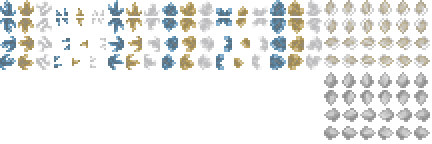
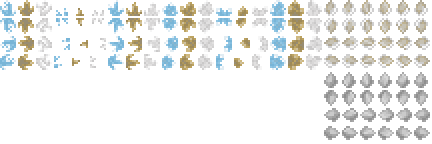
better shard and glow

diff --git a/Content/Tiles/Rapture/RadiantShard.cs b/Content/Tiles/Rapture/RadiantShard.cs
@@ -1,6 +1,7 @@
 using Microsoft.Xna.Framework;
 using Terraria;
 using Terraria.ID;
+using Terraria.Localization;
 using Terraria.ModLoader;
 
 namespace VanillaPlus.Content.Tiles.Rapture
@@ -32,7 +33,10 @@ namespace VanillaPlus.Content.Tiles.Rapture
 
             DustType = DustID.YellowTorch; // Gold dust
             HitSound = SoundID.Item27;
-            AddMapEntry(new Color(255, 215, 100)); // Gold
+
+            // Map entry with hover text
+            LocalizedText name = CreateMapEntryName();
+            AddMapEntry(new Color(255, 215, 100), name); // Gold
 
             RegisterItemDrop(ModContent.ItemType<Items.Rapture.RadiantShard>());
         }
@@ -42,36 +46,69 @@ namespace VanillaPlus.Content.Tiles.Rapture
             num = fail ? 1 : 3;
         }
 
+        /// <summary>
+        /// Called when the tile frame is being recalculated.
+        /// Returns false to destroy the tile if the attached block is gone.
+        /// </summary>
+        public override bool TileFrame(int i, int j, ref bool resetFrame, ref bool noBreak)
+        {
+            Tile tile = Main.tile[i, j];
+            short frameY = tile.TileFrameY;
+
+            // Check if the attached tile still exists based on orientation
+            Tile attachedTile;
+            if (frameY == 0)
+                attachedTile = Main.tile[i, j + 1]; // Floor attachment - check below
+            else if (frameY == 18)
+                attachedTile = Main.tile[i, j - 1]; // Ceiling attachment - check above
+            else if (frameY == 36)
+                attachedTile = Main.tile[i + 1, j]; // Right wall attachment - check right
+            else if (frameY == 54)
+                attachedTile = Main.tile[i - 1, j]; // Left wall attachment - check left
+            else
+                return true; // Unknown orientation, let it be
+
+            // If attached tile is no longer solid, kill this shard
+            if (!attachedTile.HasTile || !Main.tileSolid[attachedTile.TileType] ||
+                attachedTile.IsHalfBlock || attachedTile.Slope != SlopeType.Solid)
+            {
+                WorldGen.KillTile(i, j);
+                return false;
+            }
+
+            return true;
+        }
+
         public override void ModifyLight(int i, int j, ref float r, ref float g, ref float b)
         {
             // Get the frame to determine crystal color
             Tile tile = Main.tile[i, j];
-            int frameColumn = tile.TileFrameX / 18;
+            int frameColumn = tile.TileFrameX / 18; // 0-17
 
-            // Sprite sheet has 3 color groups repeating: blue, gold, white
-            // Pattern appears to be roughly: 0-5 blue, 6-11 gold, 12-17 white
-            int colorGroup = frameColumn % 18;
+            // Sprite sheet cycles: blue, yellow, white repeating
+            // Column 0,3,6,9,12,15 = blue | 1,4,7,10,13,16 = yellow | 2,5,8,11,14,17 = white
+            int colorIndex = frameColumn % 3;
 
-            if (colorGroup < 6)
+            if (colorIndex == 0)
             {
-                // Blue/cyan crystals - subtle blue glow
-                r = 0.15f;
-                g = 0.25f;
-                b = 0.35f;
+                // Baby blue crystals - pastel baby blue glow
+                r = 0.5f;
+                g = 0.7f;
+                b = 0.85f;
             }
-            else if (colorGroup < 12)
+            else if (colorIndex == 1)
             {
-                // Gold/yellow crystals - subtle gold glow
-                r = 0.35f;
-                g = 0.30f;
-                b = 0.1f;
+                // Yellow/gold crystals - warm yellow glow
+                r = 0.55f;
+                g = 0.5f;
+                b = 0.15f;
             }
             else
             {
                 // White/silver crystals - subtle white glow
-                r = 0.3f;
-                g = 0.3f;
-                b = 0.3f;
+                r = 0.4f;
+                g = 0.4f;
+                b = 0.4f;
             }
         }
 

diff --git a/Content/Tiles/Rapture/GlowingRadiantShard.cs b/Content/Tiles/Rapture/GlowingRadiantShard.cs
@@ -1,6 +1,7 @@
 using Microsoft.Xna.Framework;
 using Terraria;
 using Terraria.ID;
+using Terraria.Localization;
 using Terraria.ModLoader;
 
 namespace VanillaPlus.Content.Tiles.Rapture
@@ -34,7 +35,10 @@ namespace VanillaPlus.Content.Tiles.Rapture
 
             DustType = DustID.YellowTorch;
             HitSound = SoundID.Item27;
-            AddMapEntry(new Color(255, 240, 150)); // Brighter gold
+
+            // Map entry with hover text
+            LocalizedText name = CreateMapEntryName();
+            AddMapEntry(new Color(255, 240, 150), name); // Brighter gold
 
             RegisterItemDrop(ModContent.ItemType<Items.Rapture.RadiantShard>());
         }
@@ -44,29 +48,62 @@ namespace VanillaPlus.Content.Tiles.Rapture
             num = fail ? 1 : 3;
         }
 
+        /// <summary>
+        /// Called when the tile frame is being recalculated.
+        /// Returns false to destroy the tile if the attached block is gone.
+        /// </summary>
+        public override bool TileFrame(int i, int j, ref bool resetFrame, ref bool noBreak)
+        {
+            Tile tile = Main.tile[i, j];
+            short frameY = tile.TileFrameY;
+
+            // Check if the attached tile still exists based on orientation
+            Tile attachedTile;
+            if (frameY == 0)
+                attachedTile = Main.tile[i, j + 1]; // Floor attachment - check below
+            else if (frameY == 18)
+                attachedTile = Main.tile[i, j - 1]; // Ceiling attachment - check above
+            else if (frameY == 36)
+                attachedTile = Main.tile[i + 1, j]; // Right wall attachment - check right
+            else if (frameY == 54)
+                attachedTile = Main.tile[i - 1, j]; // Left wall attachment - check left
+            else
+                return true; // Unknown orientation, let it be
+
+            // If attached tile is no longer solid, kill this shard
+            if (!attachedTile.HasTile || !Main.tileSolid[attachedTile.TileType] ||
+                attachedTile.IsHalfBlock || attachedTile.Slope != SlopeType.Solid)
+            {
+                WorldGen.KillTile(i, j);
+                return false;
+            }
+
+            return true;
+        }
+
         public override void ModifyLight(int i, int j, ref float r, ref float g, ref float b)
         {
             // Get the frame to determine crystal color
             Tile tile = Main.tile[i, j];
-            int frameColumn = tile.TileFrameX / 18;
+            int frameColumn = tile.TileFrameX / 18; // 0-17
 
-            // Sprite sheet has 3 color groups repeating: blue, gold, white
-            // Pattern appears to be roughly: 0-5 blue, 6-11 gold, 12-17 white
-            int colorGroup = frameColumn % 18;
+            // Sprite sheet cycles: blue, yellow, white repeating
+            // Column 0,3,6,9,12,15 = blue | 1,4,7,10,13,16 = yellow | 2,5,8,11,14,17 = white
+            int colorIndex = frameColumn % 3;
 
-            if (colorGroup < 6)
+            if (colorIndex == 0)
             {
-                // Blue/cyan crystals - bright blue glow
-                r = 0.3f;
-                g = 0.6f;
-                b = 0.9f;
+                // Baby blue crystals - bright pastel baby blue glow
+                r = 0.75f;
+                g = 0.9f;
+                b = 1.0f;
             }
-            else if (colorGroup < 12)
+            else if (colorIndex == 1)
             {
-                // Gold/yellow crystals - bright gold glow
-                r = 0.9f;
-                g = 0.8f;
-                b = 0.3f;
+                // Yellow/gold crystals - bright saturated yellow glow
+                r = 1.0f;
+                g = 0.95f;
+                b = 0.2f;
             }
             else
             {

diff --git a/recolor_backgrounds.py b/recolor_backgrounds.py
@@ -435,7 +435,7 @@ def recolor_water(image):
     return result
 
 def recolor_radiant_shard(image):
-    """RadiantShard: cyan -> baby blue, pink/magenta -> gold, purple -> white"""
+    """RadiantShard: cyan -> very light pastel baby blue, pink/magenta -> gold, purple -> white"""
     if image.mode != 'RGBA':
         image = image.convert('RGBA')
 
@@ -456,10 +456,11 @@ def recolor_radiant_shard(image):
         elif 0.7 < h <= 0.8:
             s = s * 0.1  # Nearly white
             l = min(1.0, l + 0.2)
-        # Cyan/teal (hue ~0.45-0.55) -> baby blue (brighten)
-        elif 0.45 < h < 0.55:
-            h = 0.55  # Sky/baby blue
-            l = min(1.0, l + 0.1)
+        # Cyan/teal/blue (hue ~0.45-0.6) -> soft baby blue (not too washed out)
+        elif 0.45 < h < 0.6:
+            h = 0.56  # Baby blue
+            l = min(1.0, l + 0.15)  # Moderate brightness
+            s = max(0.45, s * 0.7)  # Keep more saturation for visibility
 
         r2, g2, b2 = colorsys.hls_to_rgb(h, l, s)
         new_pixels.append((int(r2*255), int(g2*255), int(b2*255), a))
@@ -469,7 +470,7 @@ def recolor_radiant_shard(image):
     return result
 
 def recolor_glowing_radiant_shard(image):
-    """GlowingRadiantShard: same as radiant but brighter"""
+    """GlowingRadiantShard: same as radiant but even brighter/more glowing"""
     if image.mode != 'RGBA':
         image = image.convert('RGBA')
 
@@ -492,10 +493,11 @@ def recolor_glowing_radiant_shard(image):
         elif 0.7 < h <= 0.8:
             s = s * 0.05
             l = min(1.0, l + 0.3)
-        # Cyan -> bright baby blue
-        elif 0.45 < h < 0.55:
-            h = 0.55
-            l = min(1.0, l + 0.2)
+        # Cyan/teal/blue -> brighter baby blue (glowing but still visible)
+        elif 0.45 < h < 0.6:
+            h = 0.56  # Baby blue
+            l = min(1.0, l + 0.25)  # Brighter for glow
+            s = max(0.4, s * 0.6)  # Keep some saturation for visibility
 
         r2, g2, b2 = colorsys.hls_to_rgb(h, l, s)
         new_pixels.append((int(r2*255), int(g2*255), int(b2*255), a))
